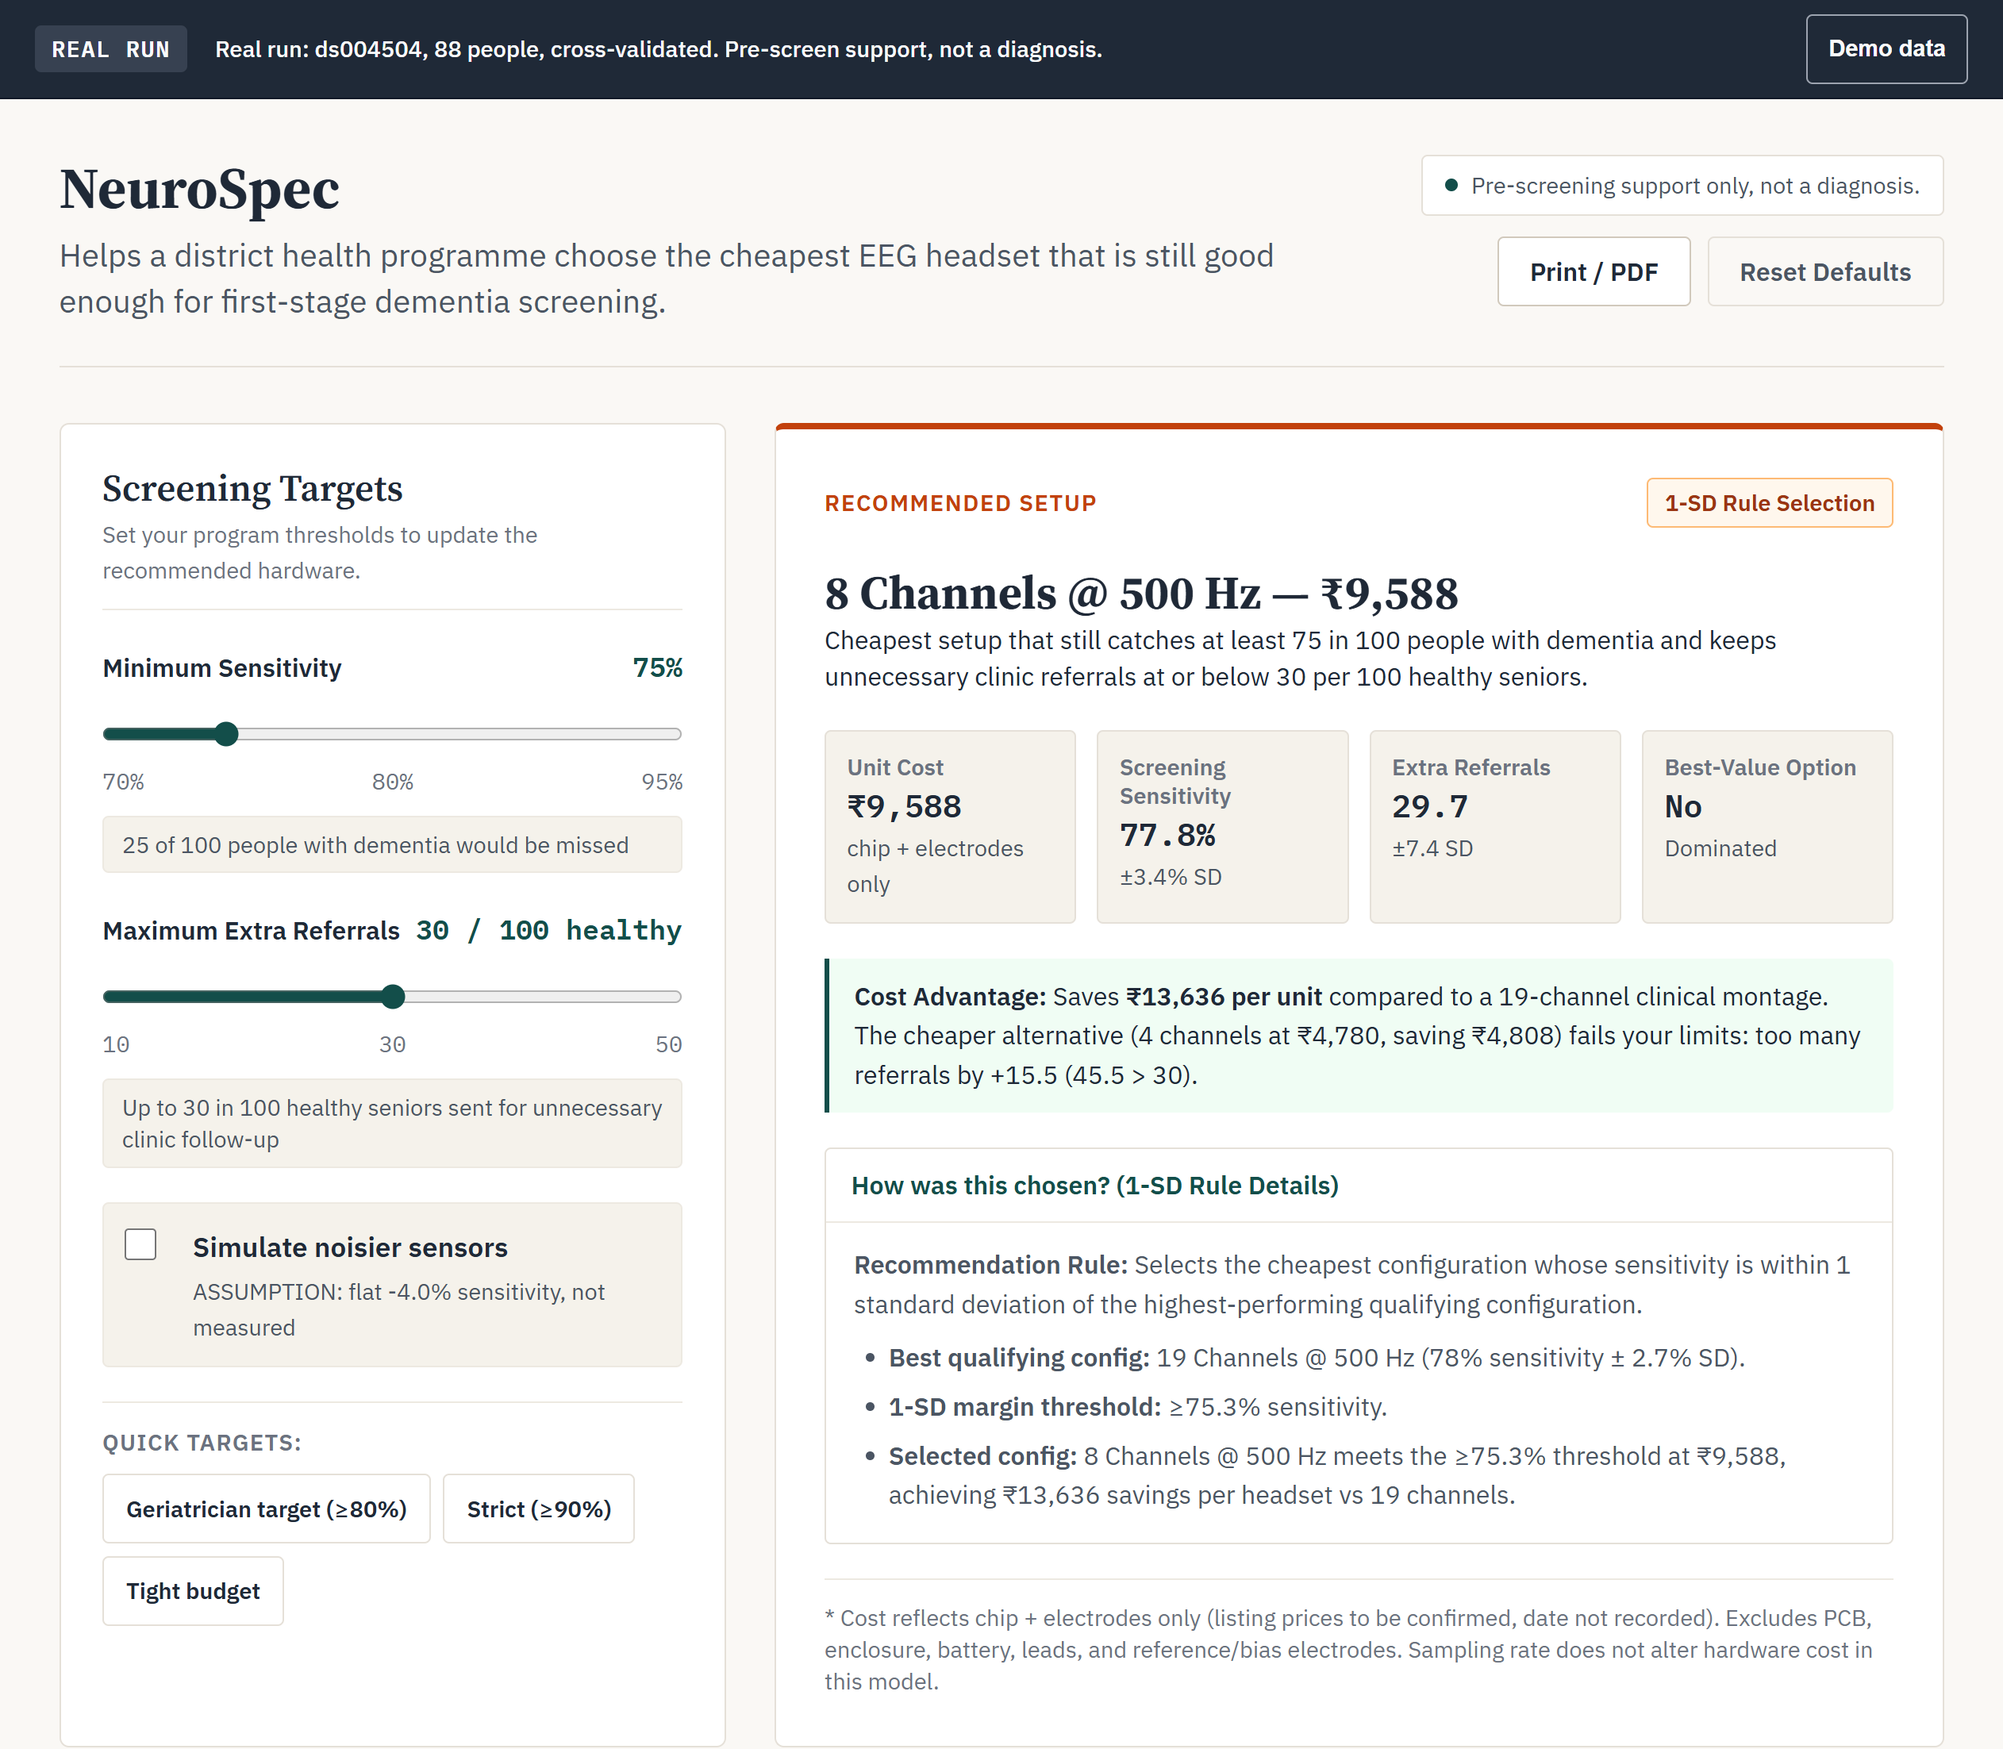
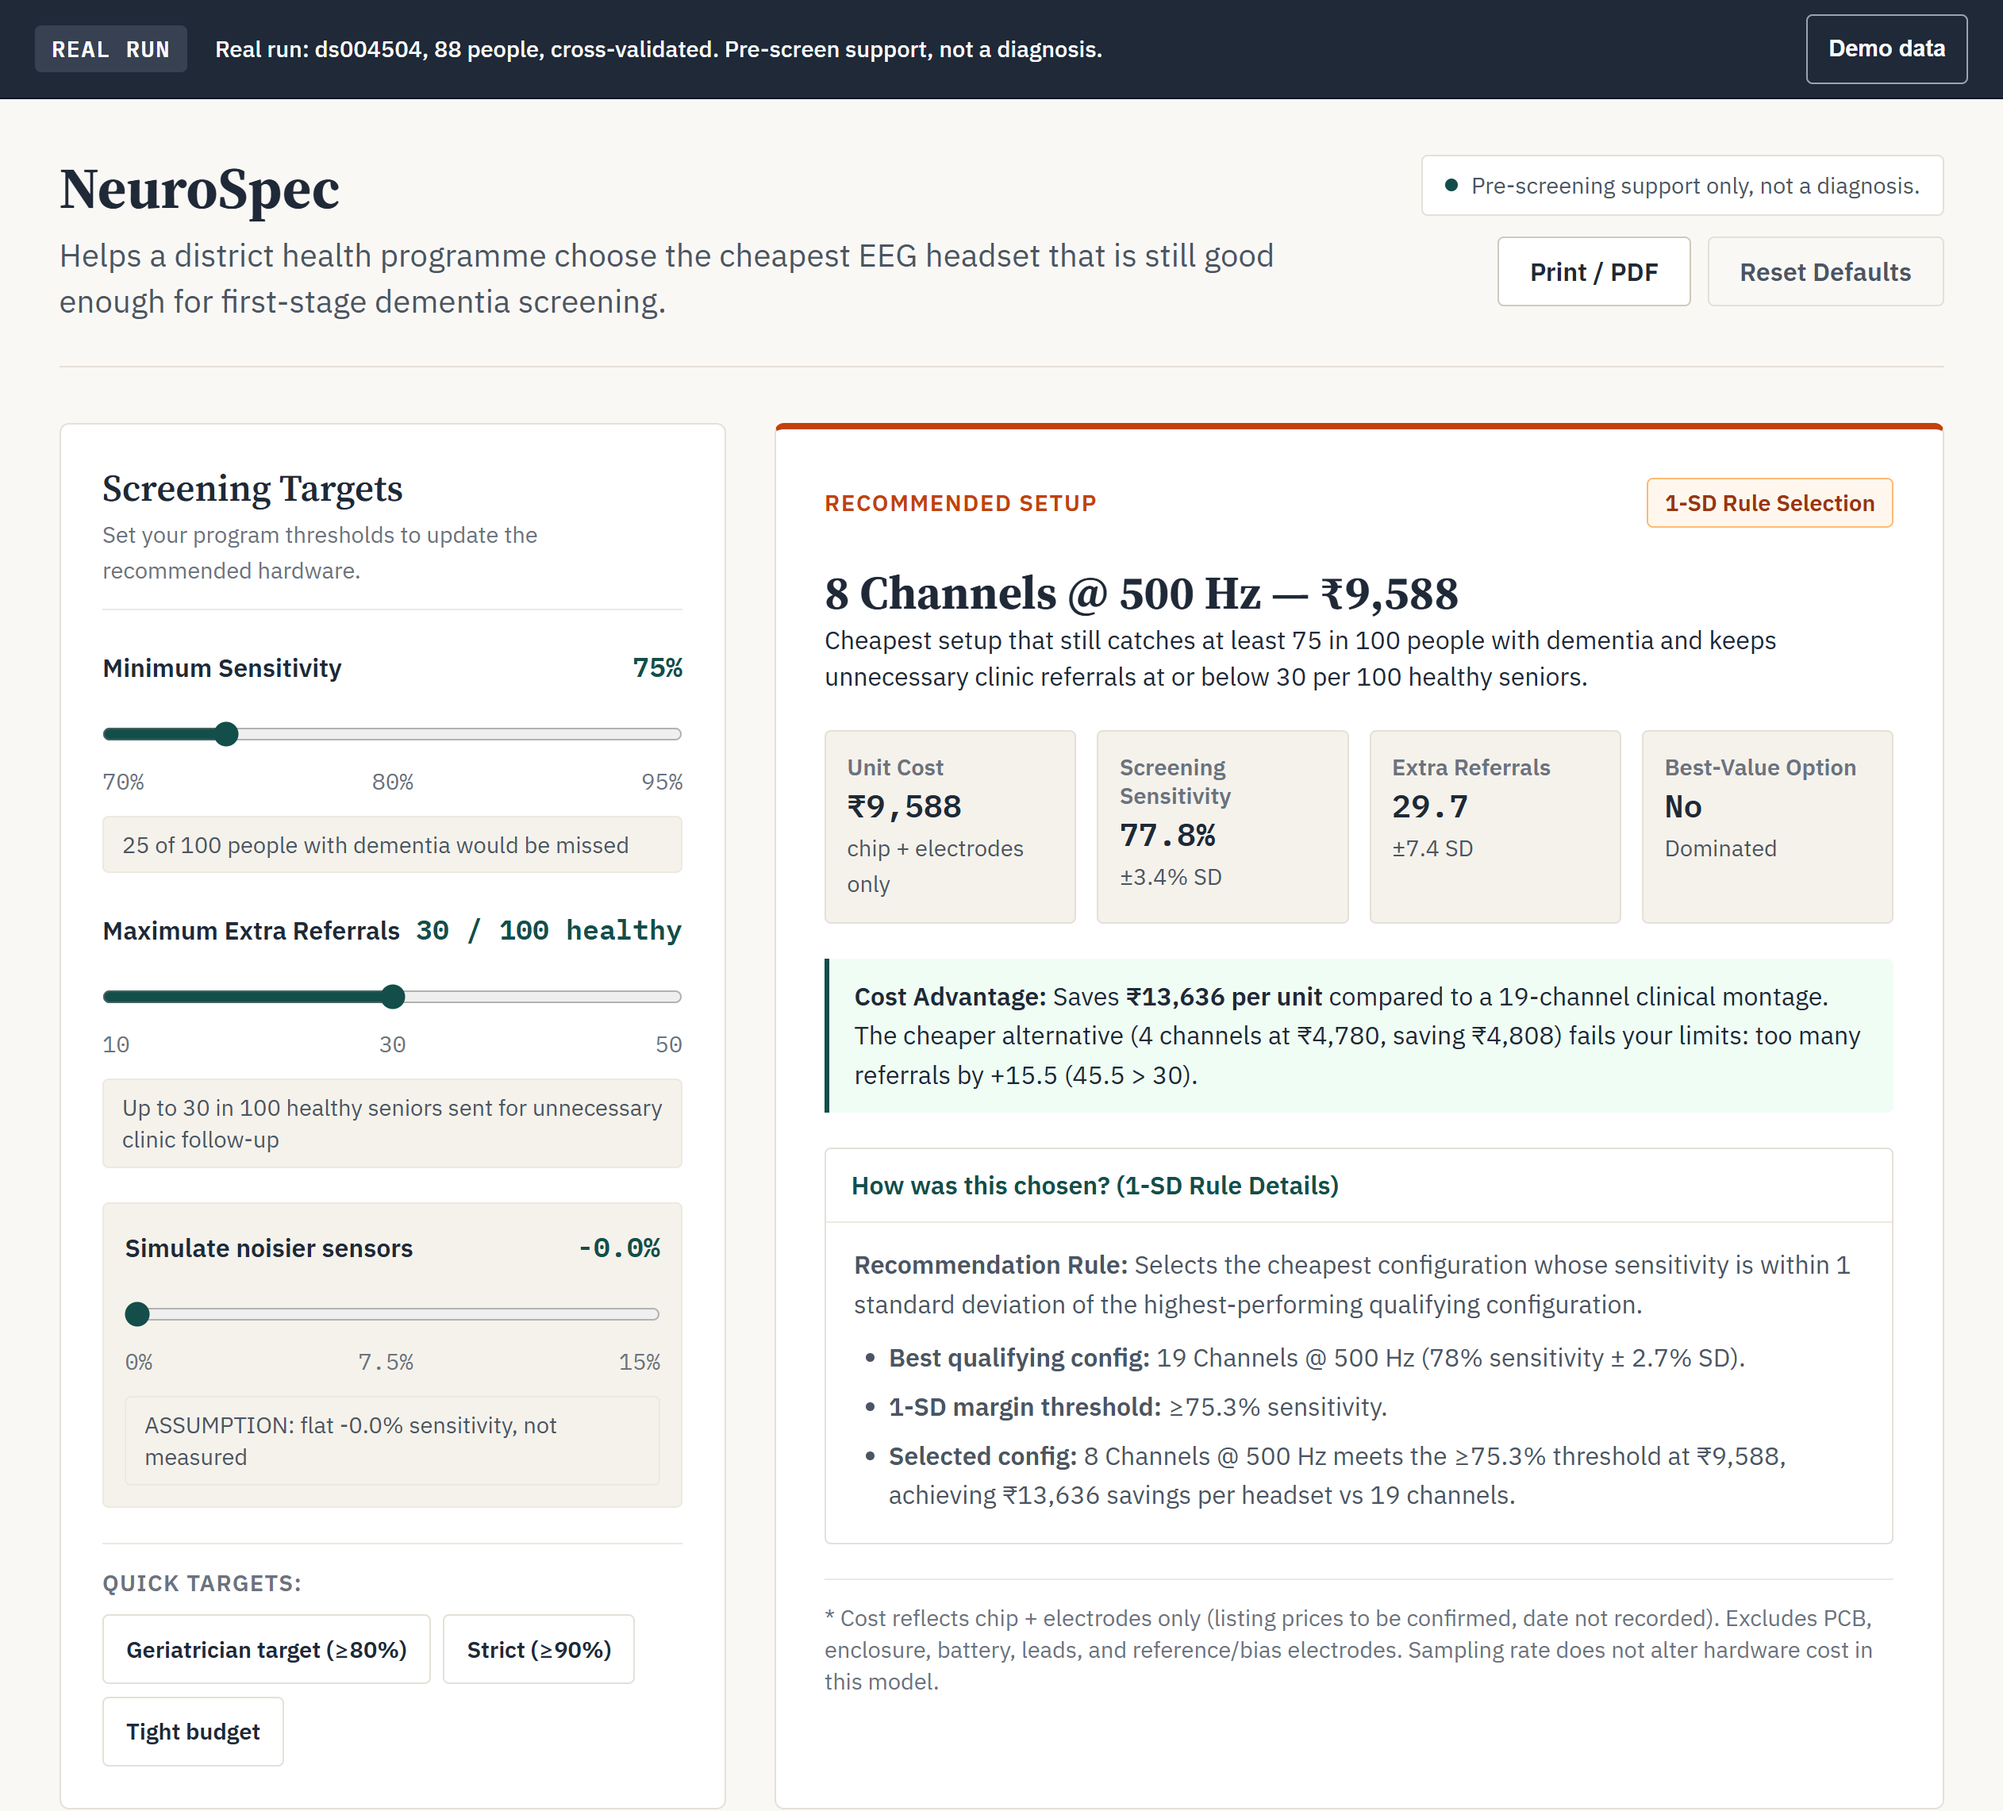
ADD Noise Toggle

diff --git a/app.js b/app.js
@@ -19,8 +19,8 @@
 const state = {
   minSensitivity: 75,          // Default 75% min sensitivity (Phase 1)
   maxReferrals: 30,            // Default 30 max extra referrals per 100 healthy (Phase 1)
-  simulateNoise: false,        // Illustrative toggle: lowers sensitivity by 4.0%
-  noisePenalty: 4.0,           // Constant penalty amount when noise is simulated
+  simulateNoise: false,        // Illustrative flag: true when noisePenalty > 0
+  noisePenalty: 0,             // Range slider penalty in percentage points (0 to 15, default 0)
   isDemoData: false,           // Default false: load real run results by default (Phase 1)
   sortColumn: 'cost',          // Active column for sorting specs table
   sortAscending: true,         // Sort direction
@@ -85,7 +85,7 @@ document.addEventListener('DOMContentLoaded', () => {
 function initControls() {
   const sliderSensitivity = document.getElementById('sliderSensitivity');
   const sliderReferrals = document.getElementById('sliderReferrals');
-  const toggleNoise = document.getElementById('toggleNoise');
+  const sliderNoise = document.getElementById('sliderNoise');
 
   // Sensitivity Slider Listener
   sliderSensitivity.addEventListener('input', (e) => {
@@ -101,10 +101,12 @@ function initControls() {
     updateDashboard();
   });
 
-  // Simulate Noisier Sensors Toggle Listener
-  if (toggleNoise) {
-    toggleNoise.addEventListener('change', (e) => {
-      state.simulateNoise = e.target.checked;
+  // Simulate Noisier Sensors Slider Listener
+  if (sliderNoise) {
+    sliderNoise.addEventListener('input', (e) => {
+      state.noisePenalty = Number(e.target.value);
+      state.simulateNoise = state.noisePenalty > 0;
+      updateSliderDisplays();
       updateDashboard();
     });
   }
@@ -120,6 +122,9 @@ function updateSliderDisplays() {
   const sensDesc = document.getElementById('sensitivityMeaningDesc');
   const valRef = document.getElementById('valReferrals');
   const refDesc = document.getElementById('referralsMeaningDesc');
+  const valNoise = document.getElementById('valNoise');
+  const noiseNote = document.getElementById('noiseNote');
+  const sliderNoise = document.getElementById('sliderNoise');
 
   if (valSens) valSens.textContent = `${state.minSensitivity}%`;
   if (sensDesc) {
@@ -130,6 +135,17 @@ function updateSliderDisplays() {
   if (valRef) valRef.textContent = `${state.maxReferrals} / 100 healthy`;
   if (refDesc) {
     refDesc.textContent = `Up to ${state.maxReferrals} in 100 healthy seniors sent for unnecessary clinic follow-up`;
+  }
+
+  if (valNoise) {
+    valNoise.textContent = `-${state.noisePenalty.toFixed(1)}%`;
+  }
+  if (noiseNote) {
+    noiseNote.textContent = `ASSUMPTION: flat -${state.noisePenalty.toFixed(1)}% sensitivity, not measured`;
+  }
+  if (sliderNoise) {
+    sliderNoise.setAttribute('aria-valuenow', String(state.noisePenalty));
+    sliderNoise.setAttribute('aria-valuetext', `-${state.noisePenalty.toFixed(1)}%`);
   }
 }
 
@@ -246,7 +262,7 @@ function updateBanner() {
  * Evaluates all specs against current cost model, noise settings, and constraints.
  */
 function evaluateSpecifications() {
-  const penalty = state.simulateNoise ? state.noisePenalty : 0;
+  const penalty = Number(state.noisePenalty) || 0;
 
   // 1. Calculate effective metrics for each specification
   const evaluated = RESULTS.map((spec, index) => {
@@ -1399,6 +1415,7 @@ function initActionButtons() {
       state.minSensitivity = 75;
       state.maxReferrals = 30;
       state.simulateNoise = false;
+      state.noisePenalty = 0;
       state.isDemoData = false;
       state.customFileName = null;
       state.campSeniors = 5000;
@@ -1407,13 +1424,13 @@ function initActionButtons() {
 
       const sliderSens = document.getElementById('sliderSensitivity');
       const sliderRef = document.getElementById('sliderReferrals');
-      const toggleNoise = document.getElementById('toggleNoise');
+      const sliderNoise = document.getElementById('sliderNoise');
       const csvInput = document.getElementById('csvFileInput');
       const feedback = document.getElementById('uploadFeedback');
 
       if (sliderSens) sliderSens.value = 75;
       if (sliderRef) sliderRef.value = 30;
-      if (toggleNoise) toggleNoise.checked = false;
+      if (sliderNoise) sliderNoise.value = 0;
       if (csvInput) csvInput.value = '';
       if (feedback) feedback.textContent = '';
 

diff --git a/index.html b/index.html
@@ -108,15 +108,20 @@
           <div class="control-readout" id="referralsMeaningDesc">Up to 30 in 100 healthy seniors sent for unnecessary clinic follow-up</div>
         </div>
 
-        <div class="control-group noise-toggle-group" id="noiseToggleContainer">
-          <label class="checkbox-label" for="toggleNoise">
-            <input type="checkbox" id="toggleNoise" class="checkbox-input">
-            <span class="checkbox-box" aria-hidden="true"></span>
-            <span class="checkbox-copy">
-              <strong>Simulate noisier sensors</strong>
-              <span class="subtext-note">ASSUMPTION: flat -4.0% sensitivity, not measured</span>
-            </span>
-          </label>
+        <div class="control-group noise-slider-group noise-toggle-group" id="noiseToggleContainer">
+          <div class="control-label-row">
+            <label for="sliderNoise" class="control-label">Simulate noisier sensors</label>
+            <span class="control-value-display" id="valNoise">-0.0%</span>
+          </div>
+          <input type="range" id="sliderNoise" min="0" max="15" step="0.5" value="0" class="range-slider"
+            aria-label="Simulate noisier sensors"
+            aria-valuemin="0" aria-valuemax="15" aria-valuenow="0" aria-valuetext="-0.0%">
+          <div class="slider-ticks" aria-hidden="true">
+            <span>0%</span>
+            <span>7.5%</span>
+            <span>15%</span>
+          </div>
+          <div class="control-readout subtext-note" id="noiseNote">ASSUMPTION: flat -0.0% sensitivity, not measured</div>
         </div>
 
         <div class="presets-block">

diff --git a/style.css b/style.css
@@ -460,7 +460,8 @@ body {
   line-height: 1.4;
 }
 
-.noise-toggle-group {
+.noise-toggle-group,
+.noise-slider-group {
   background-color: var(--color-surface-subtle);
   border: 1px solid var(--color-border-subtle);
   border-radius: var(--radius-sm);
